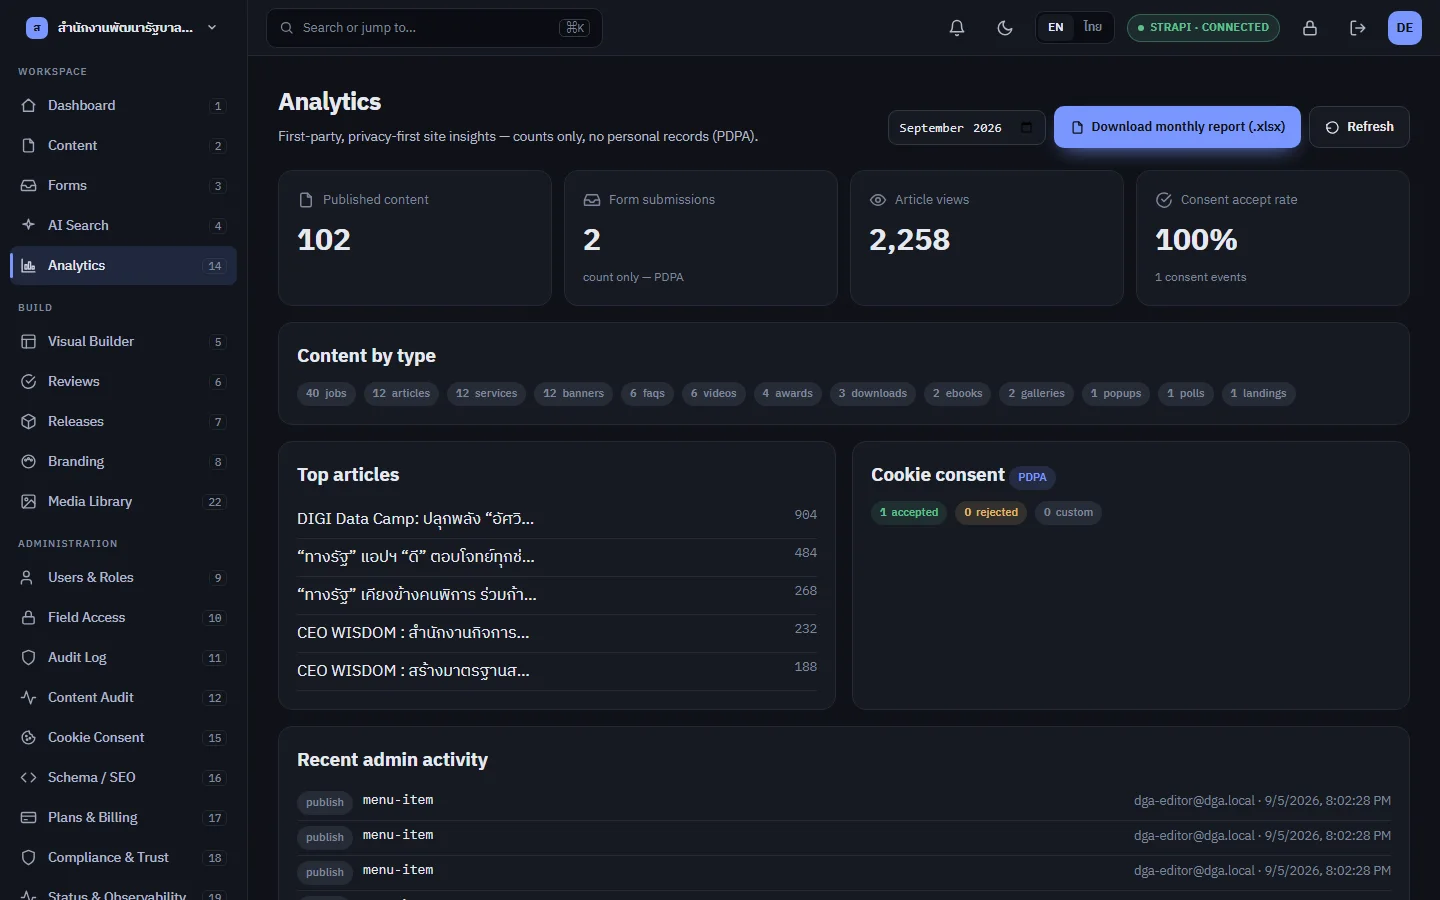
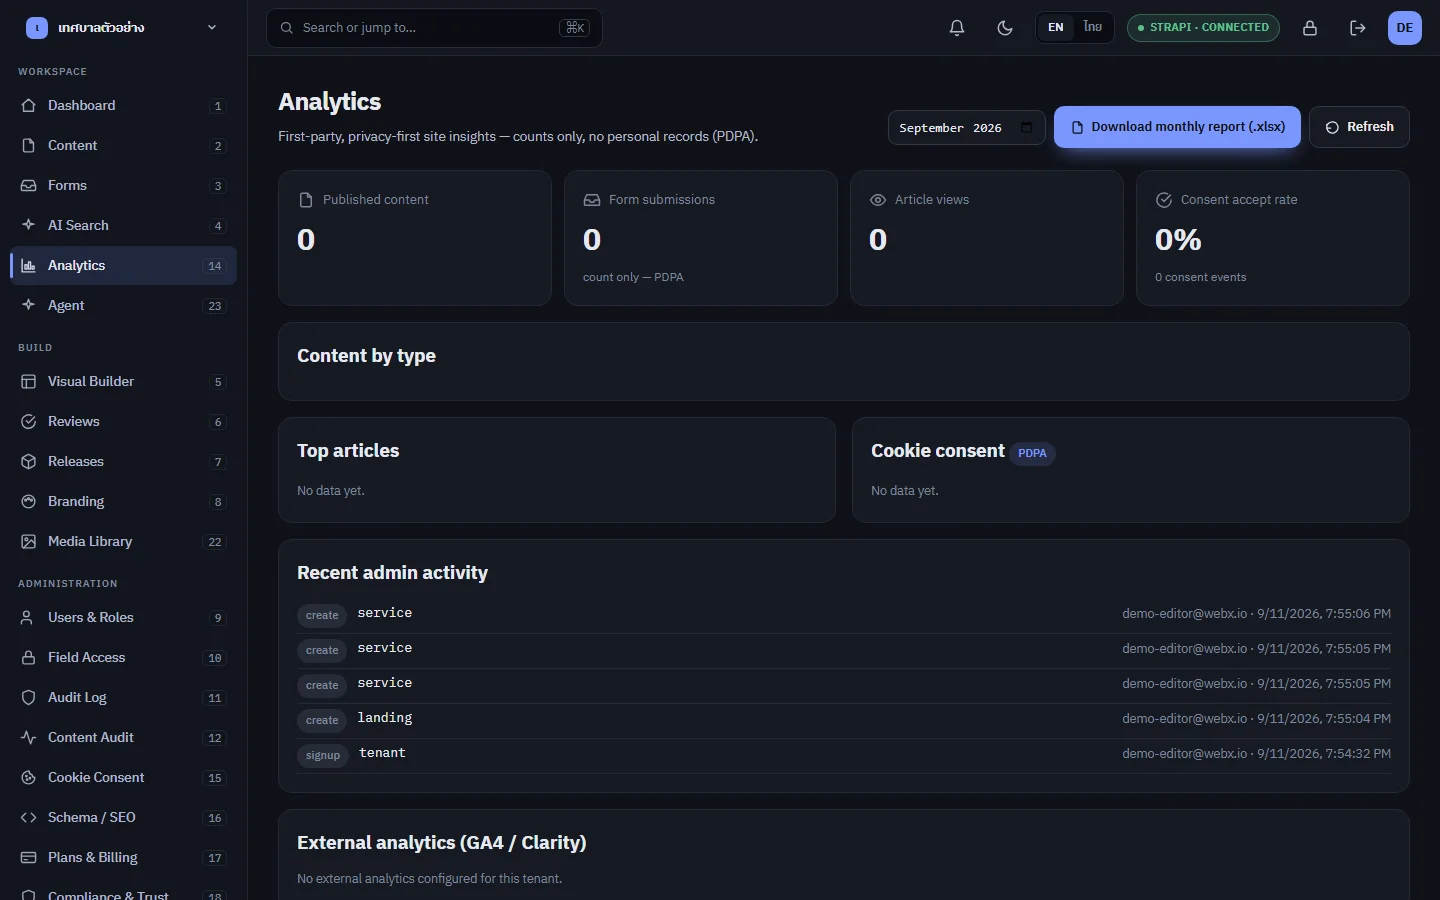
fix(marketing-site): stop using a real customer's workspace in product screenshots; add the built-in Agent
The three product screenshots (dashboard/builder/analytics) were captured by
logging into DGA's real, live tenant as dga-editor@dga.local — the images
showed DGA's real org name, that real login email in plain text, and real
DGA page content (a ThaID page) and traffic data. Replaced with a dedicated,
clearly-fictional showcase tenant ("เทศบาลตัวอย่าง" / Sample Municipality,
key webx-showcase, login demo-editor@webx.io) created via the product's own
self-serve signup and seeded with a small demo landing page + services.
scripts/capture-shots.mjs no longer has any hardcoded password default (it
now errors if SHOT_PASSWORD isn't set) and its email default points at the
showcase account instead of a customer. The showcase account's password
lives only in marketing-site/.env.local (gitignored, not committed).

Also added the site's first real coverage of the in-product AI agent
(Phase 8/9's docked panel + workspace + jobs + schedules), which the page
previously didn't mention at all — the existing "agents" section only ever
described the external MCP/CLI integration. Expanded it: an intro on the
built-in agent, an autonomy-level ladder (Off/Read only/Suggest/Draft/
Draft+submit), three capability call-outs (plans into a checklist, runs in
the background, can be scheduled), and the existing MCP tools card kept as
a secondary "automate it yourself" option. New `clock` icon. Both locales
updated; typecheck clean; verified live in EN and TH.
[…]

diff --git a/marketing-site/lib/i18n.ts b/marketing-site/lib/i18n.ts
@@ -68,12 +68,21 @@ const en = {
     note: "Choose per workspace. Editors sign in to one Studio either way.",
   },
   agents: {
-    eyebrow: "Agent-ready",
-    h2: "Let AI draft. Keep people in charge of publish.",
-    p: "WebX ships an MCP server and a CLI so Claude, Cursor or your own scripts can read content, create drafts and submit them for review. There is deliberately no publish or delete tool — a person approves from the Reviews board before anything reaches the public site.",
+    eyebrow: "Built-in AI agent",
+    h2: "An agent that works inside Studio — never outside your rules.",
+    p: "WebX Studio has its own AI agent: a chat panel on every screen, and a full workspace for longer jobs. A workspace admin sets exactly how far it can go. It plans its own work into a checklist you can watch, asks before anything it's unsure about, and checks its own results before calling a job done.",
+    levelsLabel: "Autonomy an admin grants, one level at a time",
+    levels: ["Off", "Read only", "Suggest", "Draft", "Draft + submit"],
+    caps: [
+      { icon: "check", t: "Plans, then works the plan", d: "Breaks a request into a visible checklist, ticks items off as it goes, and verifies its own results before calling a job done." },
+      { icon: "bolt", t: "Runs in the background", d: "Bulk work — draft every service page, translate a whole section, audit for compliance gaps — keeps going after you close the tab, and resumes if it's interrupted." },
+      { icon: "clock", t: "Or on a schedule", d: "A recurring job, like a weekly content audit, that starts itself — no one has to remember to run it." },
+    ],
+    mcpH3: "Prefer to automate it yourself?",
+    mcpP: "The same rules apply over an MCP server and a CLI, for Claude, Cursor or your own scripts.",
     toolsLabel: "MCP tools an agent can call",
     tools: ["list_content_types", "search_content", "get_entry", "create_entry", "update_entry", "submit_for_review", "list_reviews"],
-    denied: "publish · delete — not available to agents",
+    denied: "publish · delete — not available to any agent",
   },
   compliance: {
     eyebrow: "Proven under audit",
@@ -201,12 +210,21 @@ const th: typeof en = {
     note: "เลือกได้ต่อ workspace ผู้ดูแลเนื้อหาเข้าใช้ Studio เดียวกันทั้งสองแบบ",
   },
   agents: {
-    eyebrow: "พร้อมสำหรับ AI agent",
-    h2: "ให้ AI ร่าง แต่ให้คนเป็นผู้เผยแพร่",
-    p: "WebX มาพร้อม MCP server และ CLI ให้ Claude, Cursor หรือสคริปต์ของคุณอ่านเนื้อหา สร้างฉบับร่าง และส่งเข้าคิวตรวจทานได้ — แต่จงใจไม่มีเครื่องมือเผยแพร่หรือลบ คนต้องอนุมัติจากบอร์ด Reviews ก่อนที่อะไรจะไปถึงเว็บไซต์สาธารณะ",
+    eyebrow: "AI agent ในตัว Studio",
+    h2: "Agent ที่ทำงานอยู่ในตัว Studio — ไม่มีวันหลุดกรอบสิทธิ์ที่ตั้งไว้",
+    p: "WebX Studio มี AI agent ของตัวเอง — เป็นแผงแชทในทุกหน้าจอ และมีพื้นที่ทำงานเต็มรูปแบบสำหรับงานที่ใช้เวลานาน ผู้ดูแล workspace กำหนดได้เองว่า agent ทำอะไรได้แค่ไหน โดย agent จะวางแผนงานของตัวเองเป็นเช็คลิสต์ที่คุณดูได้ ถามก่อนทำสิ่งที่ไม่แน่ใจ และตรวจสอบผลลัพธ์ของตัวเองก่อนบอกว่างานเสร็จ",
+    levelsLabel: "ระดับสิทธิ์ที่ผู้ดูแลกำหนดให้ทีละขั้น",
+    levels: ["ปิด", "อ่านอย่างเดียว", "เสนอแนะ", "ร่างได้", "ร่างและส่งตรวจได้"],
+    caps: [
+      { icon: "check", t: "วางแผนแล้วลงมือทำตามแผน", d: "แตกคำสั่งเป็นเช็คลิสต์ที่มองเห็นได้ ติ๊กรายการที่ทำเสร็จไปเรื่อย ๆ และตรวจสอบผลลัพธ์ของตัวเองก่อนบอกว่างานเสร็จ" },
+      { icon: "bolt", t: "ทำงานเบื้องหลังได้", d: "งานปริมาณมาก เช่น ร่างหน้าบริการทุกหน้า แปลทั้งหมวด ตรวจสอบช่องโหว่ด้านมาตรฐาน — ทำต่อได้แม้ปิดแท็บ และทำต่อจากจุดเดิมได้หากถูกขัดจังหวะ" },
+      { icon: "clock", t: "หรือตั้งเวลาให้ทำงานเอง", d: "งานที่ทำซ้ำ เช่น ตรวจสอบเนื้อหาประจำสัปดาห์ ที่เริ่มทำงานเองได้ — ไม่ต้องมีใครคอยจำว่าต้องสั่งรัน" },
+    ],
+    mcpH3: "อยากต่อเชื่อมเอง?",
+    mcpP: "กติกาเดียวกันนี้ใช้ได้ผ่าน MCP server และ CLI สำหรับ Claude, Cursor หรือสคริปต์ของคุณเอง",
     toolsLabel: "เครื่องมือ MCP ที่ agent เรียกใช้ได้",
     tools: ["list_content_types", "search_content", "get_entry", "create_entry", "update_entry", "submit_for_review", "list_reviews"],
-    denied: "publish · delete — ไม่เปิดให้ agent ใช้",
+    denied: "publish · delete — ไม่เปิดให้ agent ใช้ ไม่ว่าจะแบบใด",
   },
   compliance: {
     eyebrow: "ผ่านการตรวจสอบมาแล้ว",

diff --git a/marketing-site/app/globals.css b/marketing-site/app/globals.css
@@ -158,6 +158,21 @@ button:focus-visible,a:focus-visible,summary:focus-visible{outline:2px solid var
 .term .denied{margin:8px 16px 16px;padding:10px 12px;border-radius:var(--r-sm);background:rgba(242,135,127,.08);color:var(--navy-bad);display:flex;align-items:center;gap:10px;font-size:12.5px}
 .term .denied svg{width:15px;height:15px}
 
+.levels{display:flex;align-items:center;flex-wrap:wrap;gap:2px;margin-top:24px}
+.levels-step{display:flex;align-items:center;gap:2px}
+.levels-pill{font-family:var(--mono);font-size:12px;padding:6px 12px;border-radius:999px;border:1px solid var(--navy-line);color:var(--navy-mut)}
+.levels-pill.on{background:var(--navy-accent);border-color:transparent;color:var(--navy)}
+.levels-arrow{width:14px;height:14px;color:var(--navy-line);margin:0 2px}
+.agents .wrap.agent-more{display:block;margin-top:64px}
+.agent-caps{display:grid;grid-template-columns:repeat(3,1fr);gap:32px}
+.agent-caps .ic{width:36px;height:36px;border-radius:var(--r);background:rgba(122,150,255,.12);color:var(--navy-accent);display:grid;place-items:center;margin-bottom:16px}
+.agent-caps .ic svg{width:18px;height:18px}
+.agent-caps h3{color:#fff;font-size:1.0625rem;margin-bottom:6px}
+.agent-caps p{font-size:14px;color:var(--navy-ink2)}
+.agent-mcp-note{margin-top:40px;padding-top:32px;border-top:1px solid var(--navy-line);font-size:14px;color:var(--navy-ink2)}
+.agent-mcp-note span{color:#fff;font-weight:600}
+@media (max-width:720px){ .agent-caps{grid-template-columns:1fr} }
+
 /* how */
 .steps{display:grid;grid-template-columns:repeat(3,1fr);gap:28px;border-top:1px solid var(--line2);padding-top:32px}
 .step b.n{display:block;font-family:var(--mono);font-size:13px;font-weight:500;color:var(--accent);margin-bottom:14px}

diff --git a/marketing-site/components/Home.tsx b/marketing-site/components/Home.tsx
@@ -98,6 +98,14 @@ export default function Home({ locale }: { locale: Locale }) {
               <div className="eyebrow">{s.agents.eyebrow}</div>
               <h2>{s.agents.h2}</h2>
               <p className="lead">{s.agents.p}</p>
+              <div className="levels" aria-label={s.agents.levelsLabel}>
+                {s.agents.levels.map((l, i) => (
+                  <div className="levels-step" key={l}>
+                    <span className={"levels-pill" + (i === s.agents.levels.length - 1 ? " on" : "")}>{l}</span>
+                    {i < s.agents.levels.length - 1 && <Icon name="arrow" className="levels-arrow" />}
+                  </div>
+                ))}
+              </div>
             </div>
             <div className="term" aria-label={s.agents.toolsLabel}>
               <div className="term-h"><Icon name="terminal" />{s.agents.toolsLabel}</div>
@@ -105,6 +113,20 @@ export default function Home({ locale }: { locale: Locale }) {
                 {s.agents.tools.map((x) => <li key={x}><Icon name="tick" />{x}</li>)}
               </ul>
               <div className="denied"><Icon name="x" />{s.agents.denied}</div>
+            </div>
+          </div>
+          <div className="wrap agent-more">
+            <div className="agent-caps">
+              {s.agents.caps.map((c) => (
+                <div key={c.t}>
+                  <div className="ic"><Icon name={c.icon} /></div>
+                  <h3>{c.t}</h3>
+                  <p>{c.d}</p>
+                </div>
+              ))}
+            </div>
+            <div className="agent-mcp-note">
+              <span>{s.agents.mcpH3}</span> {s.agents.mcpP}
             </div>
           </div>
         </section>

diff --git a/marketing-site/components/Icon.tsx b/marketing-site/components/Icon.tsx
@@ -17,6 +17,7 @@ const P: Record<string, React.ReactNode> = {
   lock: <><rect x="4" y="11" width="16" height="10" rx="2" /><path d="M8 11V7a4 4 0 0 1 8 0v4" /></>,
   bolt: <path d="M13 2 4 14h7l-1 8 9-12h-7l1-8z" />,
   terminal: <><rect x="3" y="4" width="18" height="16" rx="2" /><path d="m7 9 3 3-3 3M13 15h4" /></>,
+  clock: <><circle cx="12" cy="12" r="9" /><path d="M12 7v5l3.5 2" /></>,
   x: <path d="M6 6l12 12M18 6 6 18" />,
 };
 
